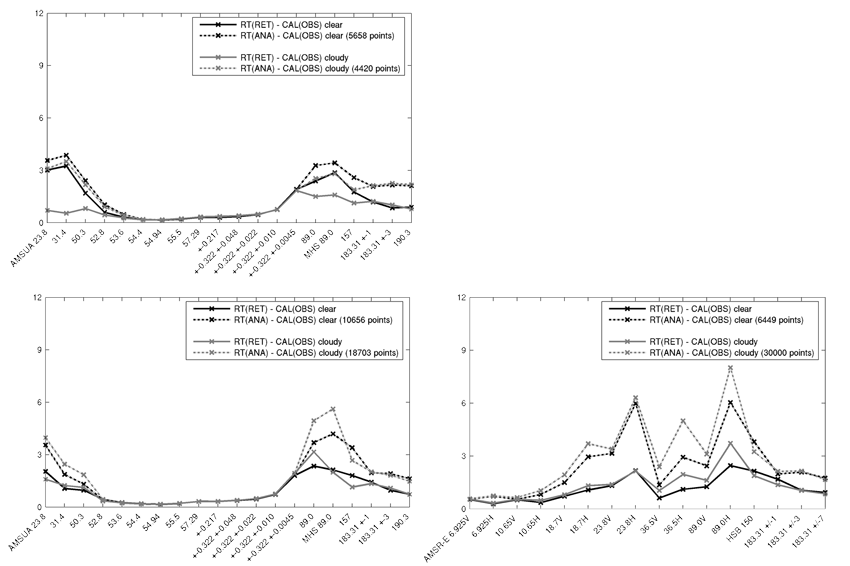
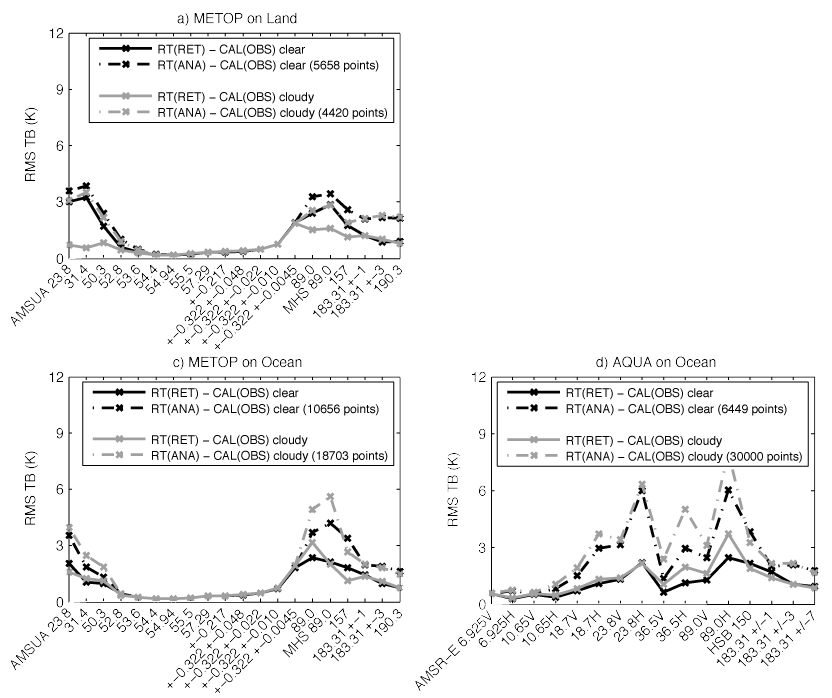
Add figures

diff --git a/index.html b/index.html
@@ -515,18 +515,24 @@
         </div>
 
         <div id="Calibration">
-            <div id="Calib_result1" class="step" data-x="+=0" data-y="+=800">
+            <div id="Calib_result1" class="step" data-x="+=0" data-y="+=900">
                 <h1>Comparaison avec les données simulées</h1>
-                <img src="images/calib_map_compare1.png" class="innerStep appear">
-                <img src="images/calib_map_compare2.png">
+                <div class="figures">
+                    <img src="images/calib_map_compare1.png" class="innerStep appear">
+                    <img src="images/calib_map_compare2.png">
+                </div>
                 <ul>
                     <li>Écarts des TB Observées (gauche) et Calibrées (droite) avec les TB simulées via RTTOV pour AMSR-E et HSB sur Aqua à 183&pm;1&nbsp;GHz et 18.7&nbsp;GHz H</li>
                     <li><i>Échantillon de situations non précipitantes de 09/2002 et 01/2003 en coïncidence avec les données OPERA ECMWF.</i></li>
                 </ul>
             </div>
 
-            <div id="Calib_result2" class="step" data-x="+=0" data-y="+=800">
-                <img src="images/calib_RMS.png">
+            <div id="Calib_result2" class="step" data-x="+=0" data-y="+=900">
+                <div class="figures">
+                    <img src="images/calib_RMSb.png" class="innerStep appear">
+                    <img src="images/calib_RMSc.png" class="innerStep appear">
+                    <img src="images/calib_RMSa.png">
+                </div>
                 <ul>
                     <li>Écarts moyens des TB Calibrées (traits pleins) et Observées (tirets) avec les TB simulées via RTTOV sur les canaux AMSR-E et HSB sur Aqua </li>
                     <li><i>Échantillon de situations non précipitantes de 09/2002 et 01/2003 en coïncidence avec les données OPERA ECMWF.</i></li>
@@ -603,7 +609,13 @@
                 <li>AMSR-E &amp; HSB (AQUA)</li>
                 <li>AMSU-A/B (NOAA-18)</li>
             </ul>
-            <img src="images/telsem_compare.png">
+            <div class="figures">
+                <img src="images/telsem_compare_b.png" class="innerStep appear">
+                <img src="images/telsem_compare_c.png" class="innerStep appear">
+                <img src="images/telsem_compare_d.png" class="innerStep appear">
+                <img src="images/telsem_compare_e.png" class="innerStep appear">
+                <img src="images/telsem_compare_a.png">
+            </div>
             <h6>Écart-type entre TB observées et TB simulées
                 pour AMSUA et AMSUB sur les mois de 07/2002 et 01/2003.
                 <br>
@@ -688,7 +700,7 @@
         <div id="MT_TB1" class="step" data-x="+=0" data-y="+=800" data-scale="0.75">
             <h1>Validation dans l'espace des TB</h1>
             <div>
-                <img src="images/mt_8c.png">
+                <img src="images/mt_8a.png">
                 Écart entre les observations HSB/AMSR-E sur Aqua avec :
                 <ul class="bullet3">
                     <li>les simulations de l'analyse (tirets)</li>
@@ -703,7 +715,7 @@
                 </ul>
             </div>
             <div class="innerStep appear">
-                <img src="images/mt_8a.png">
+                <img src="images/mt_8c.png">
                 Écart entre les observations HSB et AMSR-E sur Aqua avec :
                 <ul class="bullet3">
                     <li>les simulations de l'analyse (tirets)</li>

diff --git a/css/defense.css b/css/defense.css
@@ -33,6 +33,11 @@ h1 {
 }
 
 /* Slide header */
+
+.figures img.innerStep {
+    position: absolute;
+    left: auto;
+}
 .header1 {
     box-shadow: 0 1px 6px rgba(0, 0, 0, .1);
     background-color: #EEE;
@@ -763,10 +768,6 @@ ul#DB2 li {
     margin-top:10px;
     font-size: 30px;
 }
-#Calibration img.innerStep {
-    position: absolute;
-    left: 89px;
-}
 #Calibration div.step {
     text-align: center;
 }
@@ -780,9 +781,6 @@ ul#DB2 li {
 }
 #Calibration ul li i {
     font-size: 20px;
-}
-#Calib_result2 img {
-    width: 800px;
 }
 #Telsem ul li {
     font-size: 30px;
@@ -834,8 +832,8 @@ ul#DB2 li {
     font-size: 23px;
 }
 #Telsem_validation img {
-    margin-top: 10px;
-    width:500px;
+    margin: 10px 0 0 -150px;
+    width:800px;
     float: left;
 }
 #Telsem_validation h6 {
